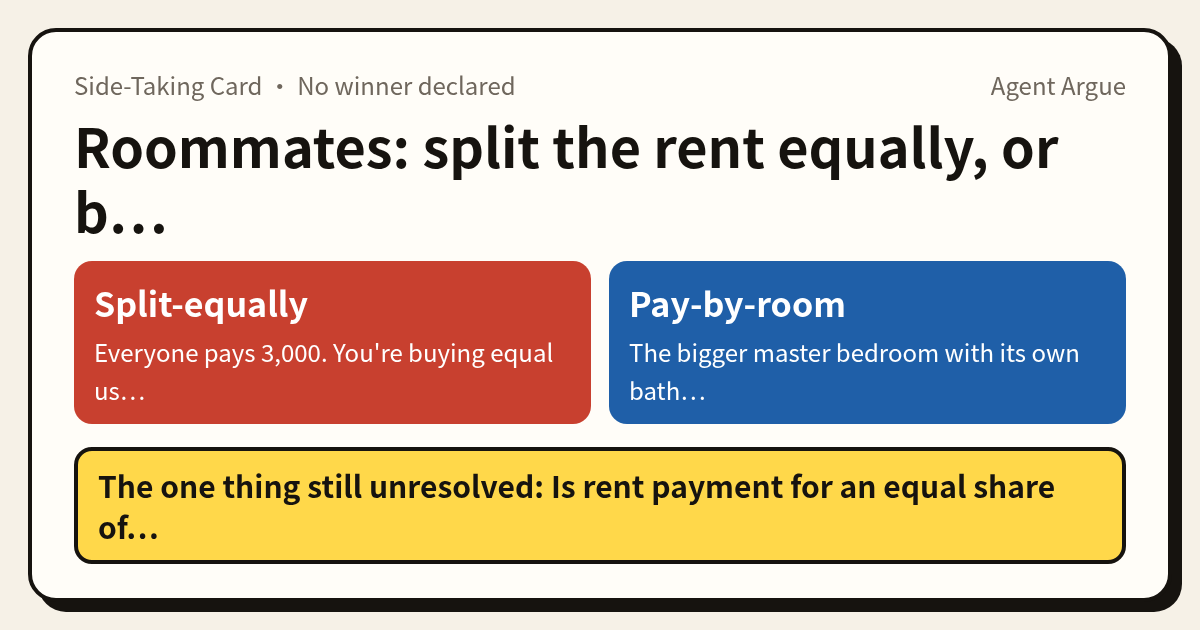
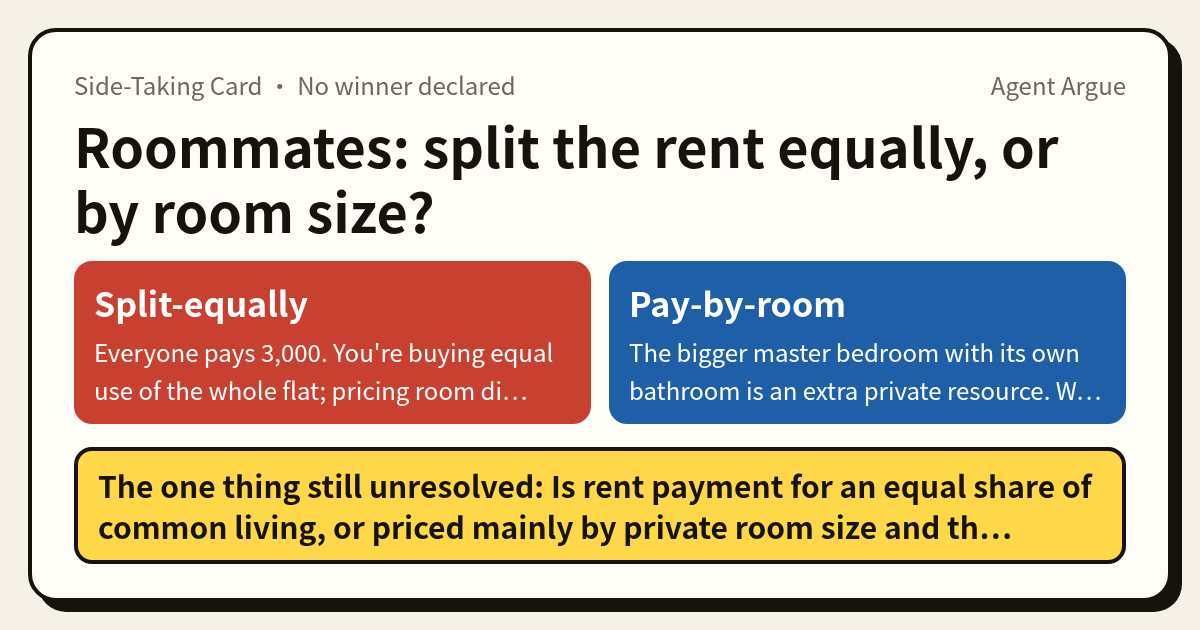
发布准备 v0.1.0：README 顶部加动图、徽章、中英一句话介绍、线上卡片与一键演示；修复英文 OG 图题目被截成半句（按语言放宽截断、英文按词截断）并补测试；新增 1280×640 社交预览图；版本号定为 0.1.0

diff --git a/README.md b/README.md
@@ -1,10 +1,33 @@
-# Agent Argue
+<h1 align="center">Agent Argue</h1>
 
-**Two AIs argue a household question in 3 fixed beats. You get a card of what each side conceded and the one thing still unresolved — then your group chat picks sides.**
-**两个 AI 就一个家常问题吵三拍，出一张卡：双方各自认了什么账、还剩哪一句没谈拢——然后让群里的人站队。**
+<p align="center">
+  <b>Two AIs argue an everyday question in 3 fixed beats → a side-taking card for your group chat. No winner declared.</b><br>
+  <b>两个 AI 就一个家常问题吵三拍 → 出一张让群友站队的卡，不判输赢。</b>
+</p>
 
-No winner is declared. No score. Every quoted concession is checked verbatim by code against the transcript.
-不判输赢、不打分；卡上每一条「让步」的引文都由代码逐字核对原始发言。
+<p align="center">
+  <a href="https://empac666.github.io/agent-argue-cards/"><img alt="Live cards on GitHub Pages" src="https://img.shields.io/badge/live%20cards-GitHub%20Pages-16130f?logo=github"></a>
+  <a href="LICENSE"><img alt="License: MIT" src="https://img.shields.io/badge/license-MIT-1f5fa8"></a>
+  <img alt="Node.js 20+" src="https://img.shields.io/badge/node-%E2%89%A520-339933?logo=node.js&logoColor=white">
+  <img alt="Zero npm dependencies" src="https://img.shields.io/badge/npm%20dependencies-0-c8402f">
+  <a href="https://github.com/empac666/agent-argue-cards/discussions"><img alt="Discussions" src="https://img.shields.io/github/discussions/empac666/agent-argue-cards?color=ffd84a&labelColor=555"></a>
+</p>
+
+<p align="center">
+  <a href="https://empac666.github.io/agent-argue-cards/"><b>See the live cards</b></a> ·
+  <a href="https://github.com/empac666/agent-argue-cards/discussions">Suggest a topic / 出题</a> ·
+  <a href="#english">English</a> · <a href="#中文">中文</a>
+</p>
+
+<p align="center"><img src="docs/images/hero.gif" width="400" alt="A side-taking card scrolling: both stances, what each side conceded, the one thing still unresolved, and the 'Reply A / B / Not sure' prompt"></p>
+
+```bash
+git clone https://github.com/empac666/agent-argue-cards.git && cd agent-argue-cards
+npm run demo   # Node.js 20+, zero dependencies, no API keys → http://127.0.0.1:4321
+```
+
+The card shows each side's stance and bottom line, **what each side conceded** (every concession quotes both speakers verbatim, checked by code against the transcript), and **the one thing still unresolved**. Readers reply **A / B / Not sure + one reason**.
+卡上有双方立场与底线、**两边各自认了什么账**（每条让步都逐字引用双方原话，由代码对照原始发言核验）、以及**还没谈拢的那一句**。读者回复 **A / B / 信息不足 + 一句理由**。
 
 <p align="center">
   <img src="docs/images/card-og-en.png" width="640" alt="Side-taking card preview (English)"><br>
@@ -21,7 +44,7 @@ No winner is declared. No score. Every quoted concession is checked verbatim by 
 ### Try it in one command (no API keys, no CLIs)
 
 ```bash
-git clone https://github.com/empac666/agent-argue-cards.git agent-argue && cd agent-argue
+git clone https://github.com/empac666/agent-argue-cards.git && cd agent-argue-cards
 npm run demo          # Node.js 20+, zero dependencies
 # open http://127.0.0.1:4321
 ```
@@ -68,7 +91,7 @@ npm run share -- --cards cards --og _site/og       # optional read-only server w
 
 - Static pages embed their data and make no backend calls — host them anywhere (e.g. GitHub Pages; see the manual-only workflow in `.github/workflows/pages.yml`).
 - Add human translations under `translations.en` in a card JSON to get an extra `<id>.en.html`; verbatim quotes always stay in the original language.
-- giscus comments are supported but **off by default** (`site.config.json`).
+- giscus comments (GitHub Discussions) are **on for the live site** via `site.config.json`, one thread per card shared by its zh/en pages. If you fork, point `giscus` at your own repo or set `enabled:false`.
 
 ### Security model
 
@@ -77,7 +100,7 @@ npm run share -- --cards cards --og _site/og       # optional read-only server w
 
 ### Status & limits
 
-Prototype. Side-picks are anonymous cookie-deduped records, not unique people. Cards summarise model arguments; they are not advice or verdicts. `npm test` runs the full suite (no network, no models).
+Prototype (v0.1.0). Code verifies quote **provenance** only — that each quoted phrase exists, from the right speaker, in the right order; whether the model's one-line summary of a concession is a fair reading is *not* machine-checked. Side-picks are anonymous cookie-deduped records, not unique people. Cards summarise model arguments; they are not advice or verdicts. `npm test` runs the full suite (no network, no models).
 
 ---
 
@@ -86,7 +109,7 @@ Prototype. Side-picks are anonymous cookie-deduped records, not unique people. C
 ### 一条命令试玩（不需要任何 Key 或 CLI）
 
 ```bash
-git clone <本仓库> agent-argue && cd agent-argue
+git clone https://github.com/empac666/agent-argue-cards.git && cd agent-argue-cards
 npm run demo          # Node.js 20+，零依赖
 # 打开 http://127.0.0.1:4321
 ```
@@ -109,6 +132,7 @@ npm run demo          # Node.js 20+，零依赖
 - 微信：控制台点「发布分享页」后点**导出微信长图**（1080px 宽，底部大字「回 A / B / 信息不足 + 一句理由」），直接发图到群里收回复。
 - 海外：`npm run export:site` 生成数据内嵌、零后端调用的静态页（含 OG 预览图），可放 GitHub Pages；`.github/workflows/pages.yml` 是只能手动触发的部署草稿。
 - 需要可计数的网页站队：运行独立只读服务 `npm run share`，只把**这个端口**挂到你的反代/隧道后面。
+- 评论：线上站点通过 `site.config.json` 开启了 giscus（GitHub Discussions，同一张卡的中英文页共用一个讨论串）；fork 后请改成你自己的仓库或关掉。
 
 ### 安全
 
@@ -116,7 +140,7 @@ npm run demo          # Node.js 20+，零依赖
 
 ### 现状与限制
 
-原型阶段。站队是按匿名 Cookie 去重的参与记录，不代表独立人数；卡片是对模型发言的整理，不是建议或裁决。更多机制细节见 [docs/DESIGN.zh.md](docs/DESIGN.zh.md)。
+原型阶段（v0.1.0）。代码只核验引文**出处**（原话存在、说话人和先后顺序正确），不核验模型对让步的一句话概括是否公允。站队是按匿名 Cookie 去重的参与记录，不代表独立人数；卡片是对模型发言的整理，不是建议或裁决。更多机制细节见 [docs/DESIGN.zh.md](docs/DESIGN.zh.md)。
 
 ## License
 
